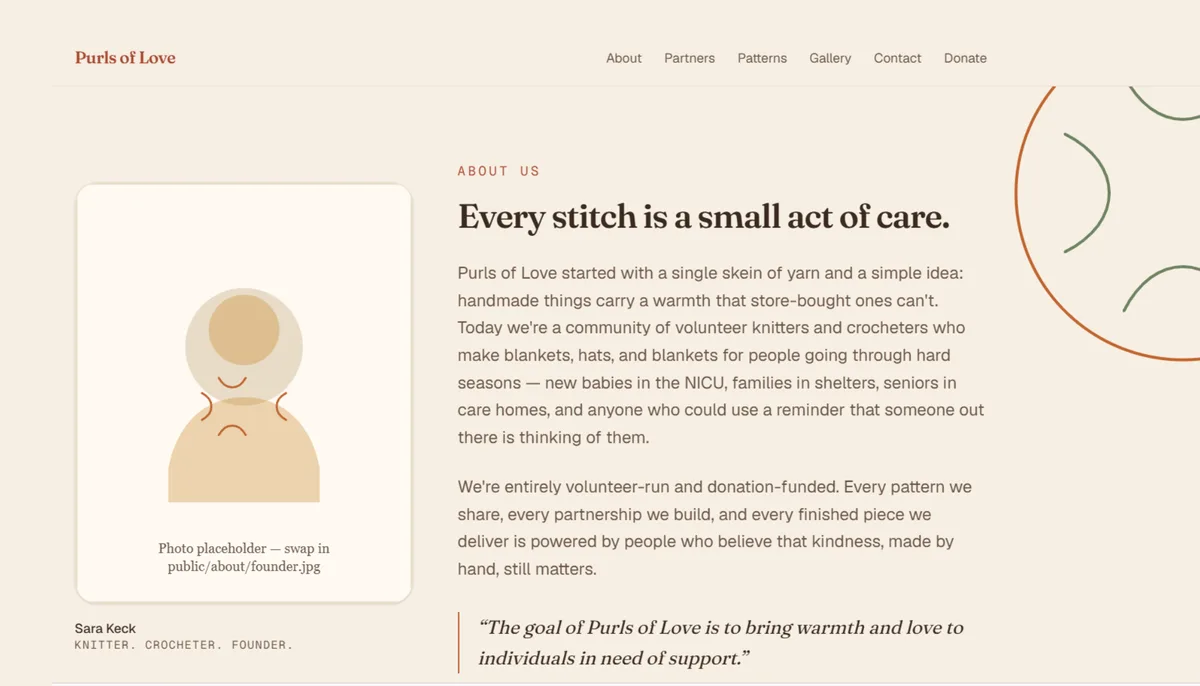
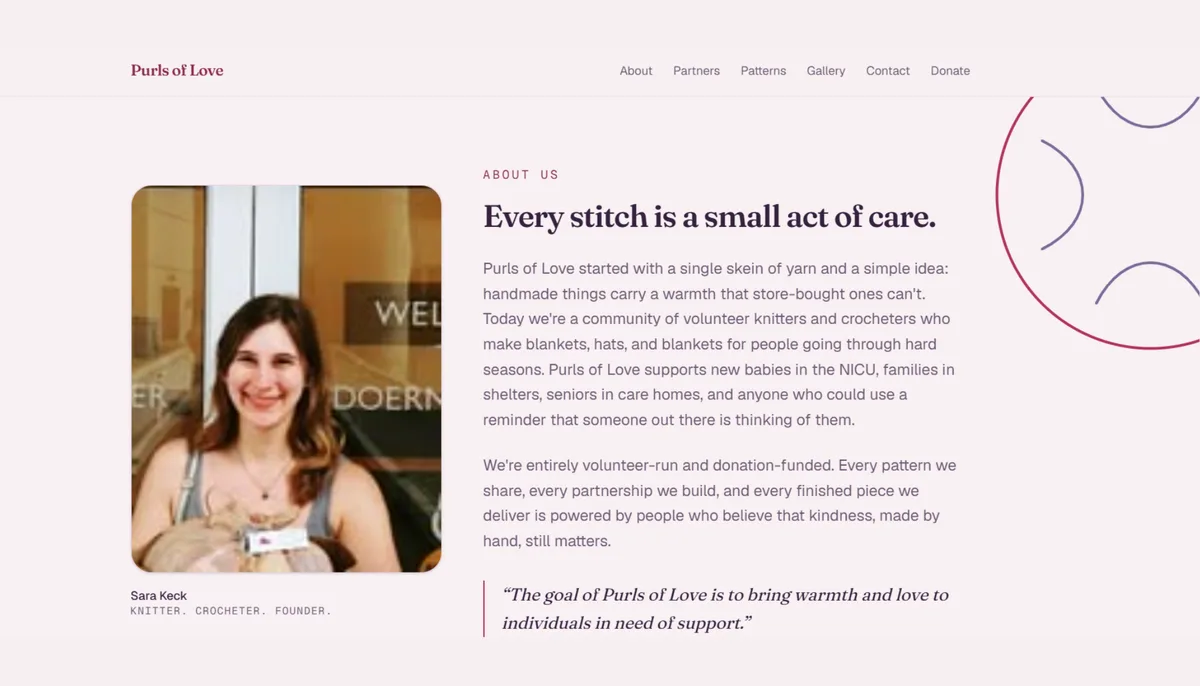
Shift elevator pitch angle

diff --git a/src/content/es.ts b/src/content/es.ts
@@ -18,14 +18,10 @@ export const es: SiteContent = {
   },
   hero: {
     eyebrow: "Elsje Slothower",
-    title: "Artista, Creadora, Desarrolladora.",
+    title: "Desarrolladora y Consultora.",
     bio1Pre: "Soluciono problemas con software.",
     bio1Post:
       "Con experiencia en frontend y backend, mis proyectos se enfocan en las bases de datos y la experiencia del usuario.",
-    bio2Pre:
-      "También tengo un pequeño negocio de vidrio de colores para documentar el proceso de crear y vender mi arte en línea, incluyendo los errores. Si quieres, puedes ver mi ",
-    bio2LinkText: "vidrio de colores",
-    bio2Post: " si tienes curiosidad.",
     ctaProjects: "Ver mi código",
     ctaContact: "Contáctame",
   },
@@ -37,12 +33,12 @@ export const es: SiteContent = {
     developerLinkText: "¡Snap!",
     developerPost:
       " y desde entonces sigo construyendo sobre esa base. El pensamiento crítico, la resolución de problemas y la creatividad son las habilidades que aporto a cada proyecto.",
-    creatorHeading: "Creadora",
+    creatorHeading: "Consultora",
     creatorText:
-      "Mi título universitario es en Periodismo e Interés Público. Tengo una larga historia de crear cosas, ya sea publicando artículos, conectando con la comunidad o publicando en redes sociales. En mi trabajo actual, creo software mientras construyo una relación de confianza con mis clientes. Disfruto el proceso creativo de construir software, y también disfruto el proceso creativo de construir relaciones.",
-    artistHeading: "Artista",
+      "He pasado tanto tiempo de mi carrera en consultoría como programando, liderando implementaciones de software en sitio para agencias de gobiernos municipales y capacitando a los usuarios finales que dependen de los sistemas que ayudo a construir. Me importa tanto un lanzamiento exitoso y un usuario seguro de sí mismo como un código limpio, y aporto esas mismas habilidades de gestión de interesados y recopilación de requisitos a cada proyecto.",
+    artistHeading: "Híbrida",
     artistText:
-      "Me gusta trabajar con las manos tanto como con la mente. La curiosidad es la clave, y la practico en todas partes. Terminar un proyecto de principio a fin es muy satisfactorio, y es aún mejor compartir tus creaciones con otras personas. El vidrio de colores es mi manera de mostrar la belleza que veo en el mundo cuando quiero que otros también la vean.",
+      "Lo que mejor hago es el punto medio: traducir entre programadores y las partes interesadas, convertir el problema real de un cliente en una solución técnica, y saber cuándo un proyecto necesita más depuración y cuándo necesita más escucha. Combinar el desarrollo y la consultoría es donde hago mi mejor trabajo.",
   },
   projects: {
     heading: "Proyectos",
@@ -120,7 +116,7 @@ export const es: SiteContent = {
   },
   contact: {
     heading: "Contacto",
-    tagline: "Eres la soldadura de mi cinta de cobre. Conectemos.",
+    tagline: "Abierta a nuevas oportunidades y proyectos interesantes. Conectemos.",
     emailLabel: "Correo",
     githubLabel: "GitHub",
     linkedinLabel: "LinkedIn",

diff --git a/src/content/en.ts b/src/content/en.ts
@@ -16,12 +16,9 @@ export const en = {
   },
   hero: {
     eyebrow: "Elsje Slothower",
-    title: "Artist, Creator, Developer.",
+    title: "Developer & Consultant.",
     bio1Pre: "I solve problems with software.",
     bio1Post: "With a background in front and backend work, my projects emphasize database functionality and user experience.",
-    bio2Pre: "I also run a small stained glass business on the side to document the process of making and selling my work online, mistakes included. Feel free to check out my ",
-    bio2LinkText: "stained glass",
-    bio2Post: " if you're curious.",
     ctaProjects: "See my code",
     ctaContact: "Get in touch",
   },
@@ -33,12 +30,12 @@ export const en = {
     developerLinkText: "Snap!",
     developerPost:
       " and I've been building on that foundation ever since. Critical thinking, problem solving, and creativity are the skills that I bring to every project I work on.",
-    creatorHeading: "Creator",
+    creatorHeading: "Consultant",
     creatorText:
-      "My bachelor's degree is in Journalism and Public Interest. I have a long history of creating, whether it's publishing articles, fostering community engagement, or posting on social media. In my current position, I create software while creating a relationship of trust with my clients. I enjoy the creative process of building software, and I enjoy the creative process of building relationships.",
-    artistHeading: "Artist",
+      "I've spent as much of my career consulting as coding, leading on-site software deployments for municipal government agencies and training the end users who rely on the systems I help build. I care as much about a smooth rollout and a confident user as I do about clean code, and I bring the same stakeholder management and requirements-gathering skills to every engagement.",
+    artistHeading: "Hybrid",
     artistText:
-      "I like working my hands as well as my brain. Curiosity is the key, and I cultivate it anywhere and everywhere I can. Progressing through a project from start to finish is satisfying, and it's even better to share your creations with others. Stained glass is my outlet when I see something beautiful in the world and want others to see it too.",
+      "The part I'm best at is the overlap: translating between engineers and stakeholders, turning a client's real-world problem into a technical solution, and knowing when a project needs more debugging and when it needs more listening. Mixing development and consulting is where I do my best work.",
   },
   projects: {
     heading: "Projects",
@@ -116,7 +113,7 @@ export const en = {
   },
   contact: {
     heading: "Contact",
-    tagline: "You're the solder to my copper foil. Let's connect.",
+    tagline: "Open to new opportunities and interesting projects. Let's connect.",
     emailLabel: "Email",
     githubLabel: "GitHub",
     linkedinLabel: "LinkedIn",

diff --git a/src/components/Hero.tsx b/src/components/Hero.tsx
@@ -48,20 +48,6 @@ export default function Hero() {
         >
           {t.hero.bio1Post}
         </p>
-        <p
-          className="animate-fade-in-up mt-6 max-w-xl text-lg leading-relaxed text-foreground-muted"
-          style={{ animationDelay: "160ms" }}
-        >
-          {t.hero.bio2Pre}
-          <a 
-            href="https://www.instagram.com/elsjesglass" 
-            target="_blank" 
-            rel="noopener noreferrer"
-            className="text-glass-blue hover:text-glass-violet">
-            {t.hero.bio2LinkText}
-          </a>
-          {t.hero.bio2Post}
-        </p>
         <div
           className="animate-fade-in-up mt-9 flex flex-wrap gap-4"
           style={{ animationDelay: "240ms" }}
